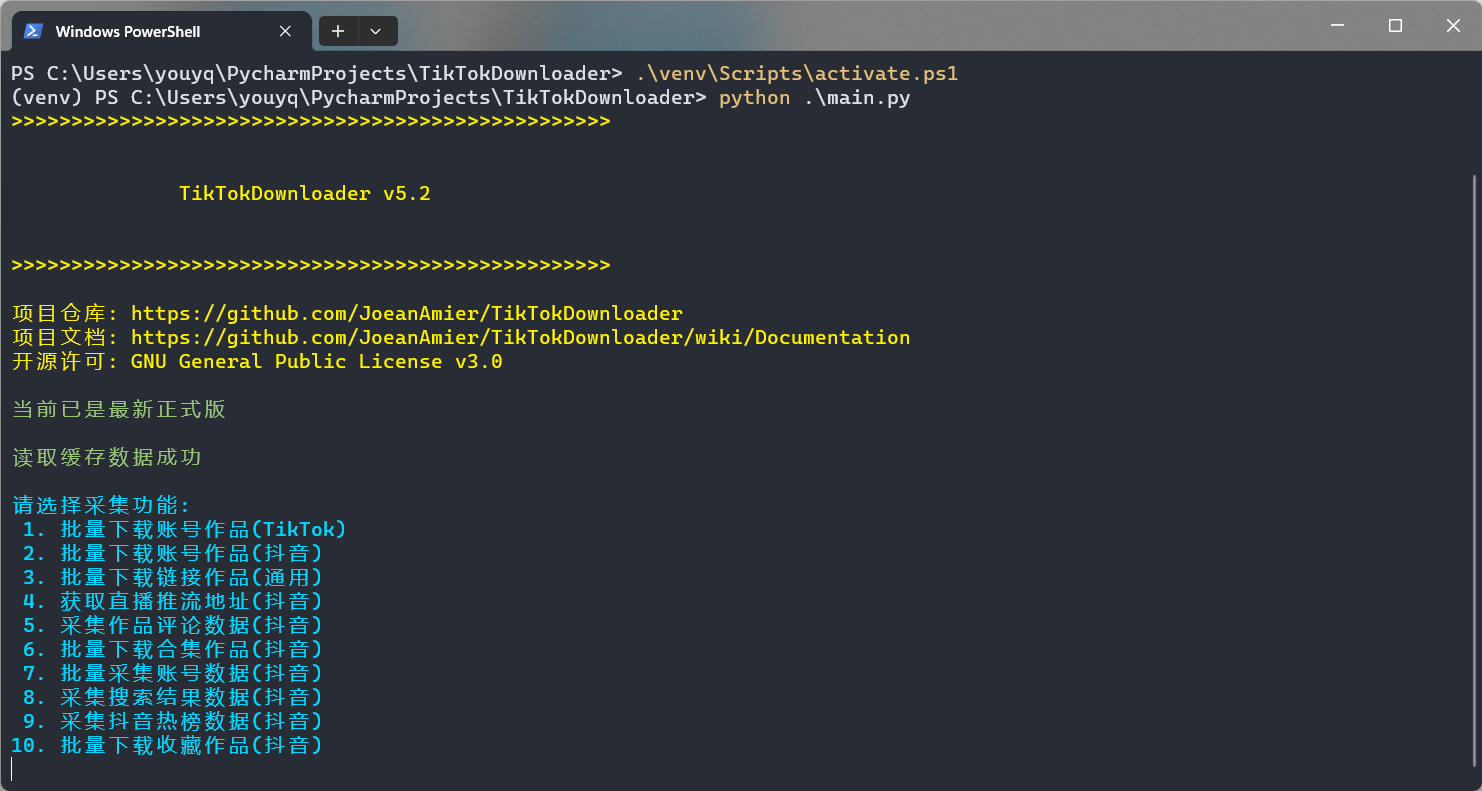
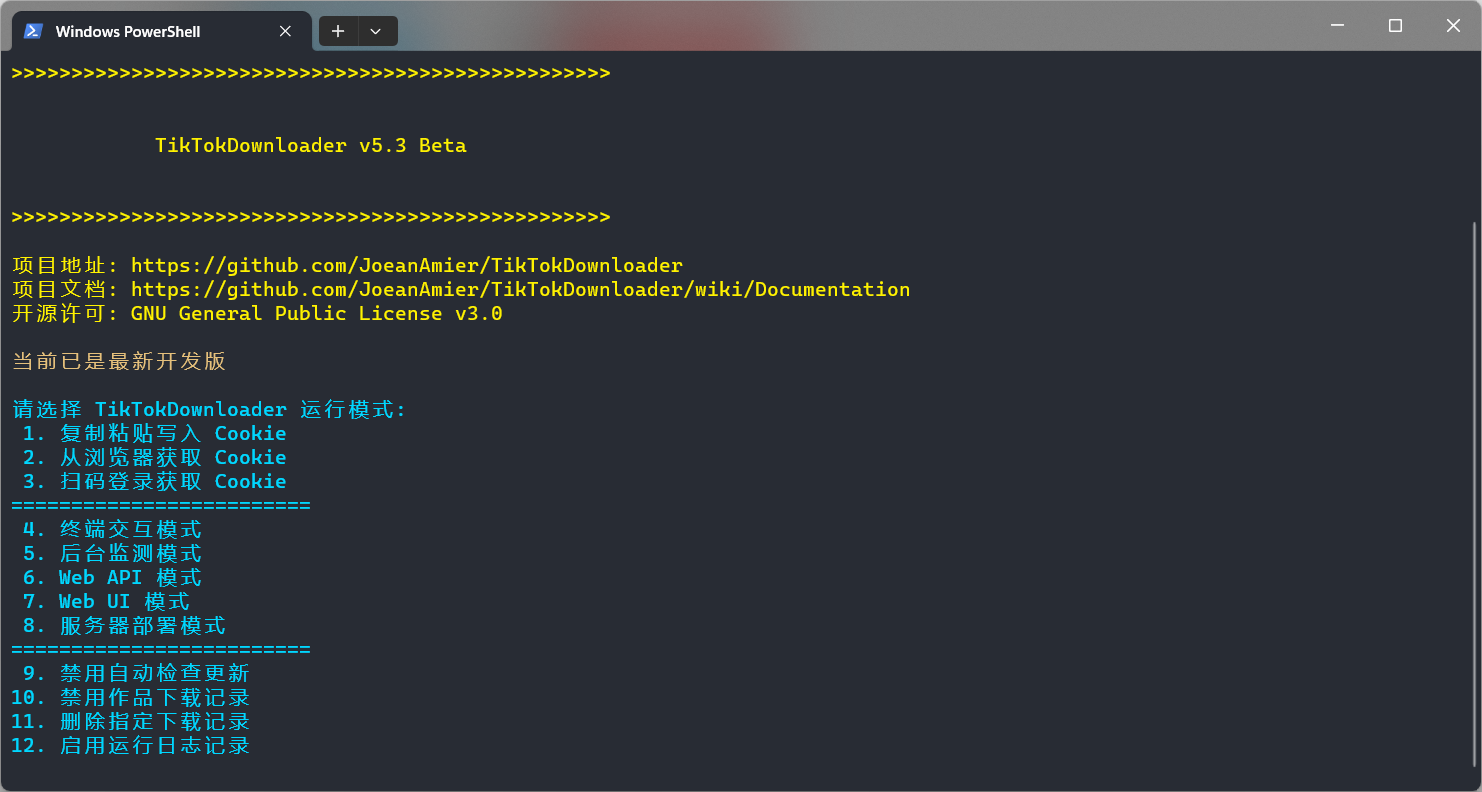
新增从浏览器获取 Cookie 功能

diff --git a/src/module/cookie.py b/src/module/cookie.py
@@ -6,58 +6,62 @@ __all__ = ["Cookie"]
 class Cookie:
     pattern = r'(?P<key>[^=;,]+)=(?P<value>[^;,]+)'
     cookie_keys = {
-        "n_mh": None,
-        "LOGIN_STATUS": None,
-        "_bd_ticket_crypt_doamin": None,
-        "__security_server_data_status": None,
+        "passport_csrf_token": None,
+        "passport_csrf_token_default": None,
+        "my_rd": None,
+        "passport_auth_status": None,
+        "passport_auth_status_ss": None,
+        "d_ticket": None,
+        "publish_badge_show_info": None,
+        "volume_info": None,
+        "__live_version__": None,
+        "download_guide": None,
+        "EnhanceDownloadGuide": None,
+        "pwa2": None,
+        "live_can_add_dy_2_desktop": None,
+        "live_use_vvc": None,
         "store-region": None,
         "store-region-src": None,
-        "my_rd": None,
-        "xgplayer_device_id": None,
-        "xgplayer_user_id": None,
-        "live_use_vvc": None,
-        "dy_swidth": None,
-        "dy_sheight": None,
-        "bd_ticket_guard_client_web_domain": None,
-        "d_ticket": None,
+        "strategyABtestKey": None,
+        "FORCE_LOGIN": None,
+        "LOGIN_STATUS": None,
+        "__security_server_data_status": None,
+        "_bd_ticket_crypt_doamin": None,
+        "n_mh": None,
+        "passport_assist_user": None,
+        "sid_ucp_sso_v1": None,
+        "ssid_ucp_sso_v1": None,
         "sso_uid_tt": None,
         "sso_uid_tt_ss": None,
         "toutiao_sso_user": None,
         "toutiao_sso_user_ss": None,
-        "_bd_ticket_crypt_cookie": None,
-        "passport_assist_user": None,
-        "publish_badge_show_info": None,
-        "s_v_web_id": None,
-        "passport_csrf_token": None,
-        "passport_csrf_token_default": None,
-        "download_guide": None,
-        "__live_version__": None,
-        "live_can_add_dy_2_desktop": None,
-        "volume_info": None,
-        "sid_ucp_sso_v1": None,
-        "ssid_ucp_sso_v1": None,
-        "sid_guard": None,
-        "uid_tt": None,
-        "uid_tt_ss": None,
-        "sid_tt": None,
         "sessionid": None,
         "sessionid_ss": None,
+        "sid_guard": None,
+        "sid_tt": None,
         "sid_ucp_v1": None,
         "ssid_ucp_v1": None,
-        "pwa2": None,
-        "strategyABtestKey": None,
-        "EnhanceDownloadGuide": None,
-        "__ac_nonce": None,
-        "__ac_signature": None,
-        "FOLLOW_LIVE_POINT_INFO": None,
-        "stream_recommend_feed_params": None,
-        "bd_ticket_guard_client_data": None,
-        "home_can_add_dy_2_desktop": None,
-        "tt_scid": None,
-        "stream_player_status_params": None,
-        "odin_tt": None,
+        "uid_tt": None,
+        "uid_tt_ss": None,
         "FOLLOW_NUMBER_YELLOW_POINT_INFO": None,
+        "vdg_s": None,
+        "_bd_ticket_crypt_cookie": None,
+        "FOLLOW_LIVE_POINT_INFO": None,
+        "bd_ticket_guard_client_data": None,
+        "bd_ticket_guard_client_web_domain": None,
+        "home_can_add_dy_2_desktop": None,
+        "odin_tt": None,
+        "stream_recommend_feed_params": None,
         "IsDouyinActive": None,
+        "stream_player_status_params": None,
+        "s_v_web_id": None,
+        "__ac_nonce": None,
+        "dy_sheight": None,
+        "dy_swidth": None,
+        "ttcid": None,
+        "xgplayer_user_id": None,
+        "__ac_signature": None,
+        "tt_scid": None,
     }
 
     def __init__(self, settings, console):

diff --git a/src/module/browser.py b/src/module/browser.py
@@ -1,0 +1,69 @@
+from typing import TYPE_CHECKING
+
+from browser_cookie3 import (
+    chrome,
+    chromium,
+    opera,
+    opera_gx,
+    brave,
+    edge,
+    vivaldi,
+    firefox,
+    librewolf,
+    safari,
+    BrowserCookieError,
+)
+
+from src.custom import WARNING
+
+if TYPE_CHECKING:
+    from src.module import Cookie
+    from src.config import Parameter
+
+
+class Browser:
+    """代码参考：https://github.com/Johnserf-Seed/f2/blob/main/f2/apps/douyin/cli.py"""
+    browser = (
+        chrome,
+        chromium,
+        opera,
+        opera_gx,
+        brave,
+        edge,
+        vivaldi,
+        firefox,
+        librewolf,
+        safari)
+    domain = "douyin.com"
+
+    def __init__(self, parameters: "Parameter", cookie_object: "Cookie"):
+        self.console = parameters.console
+        self.cookie_object = cookie_object
+
+    def run(self):
+        browser = self.console.input(
+            "自动读取指定浏览器的 Cookie 并写入配置文件\n"
+            "支持浏览器：1 Chrome, 2 Chromium, 3 Opera, 4 Opera GX, 5 Brave, 6 Edge, 7 Vivaldi, 8 Firefox, 9 LibreWolf, "
+            "10 Safari\n"
+            "请先关闭对应的浏览器，然后输入浏览器序号：")
+        try:
+            cookie = self.browser[int(browser) - 1](domain_name=self.domain)
+            cookie = self.__extract_cookie(cookie)
+            self.__save_cookie(cookie)
+        except ValueError:
+            self.console.print("浏览器序号错误，未写入 Cookie！")
+        except PermissionError:
+            self.console.print(
+                "获取 Cookie 失败，请先关闭对应的浏览器，然后输入浏览器序号！",
+                style=WARNING)
+        except BrowserCookieError:
+            self.console.print(
+                "获取 Cookie 失败，未找到对应浏览器的 Cookie 数据！",
+                style=WARNING)
+
+    @staticmethod
+    def __extract_cookie(cookie) -> dict:
+        return {i.name: i.value for i in cookie}
+
+    def __save_cookie(self, cookie: dict):
+        self.cookie_object.write(cookie)

diff --git a/src/application/TikTokDownloader.py b/src/application/TikTokDownloader.py
@@ -40,6 +40,7 @@ from src.custom import TEXT_REPLACEMENT
 from src.custom import verify_token
 from src.encrypt import XBogus
 from src.manager import DownloadRecorder
+from src.module import Browser
 from src.module import ColorfulConsole
 from src.module import Cookie
 from src.module import Register
@@ -120,8 +121,9 @@ class TikTokDownloader:
 
     def __update_menu(self):
         self.__function = (
-            ("复制粘贴写入 Cookie(推荐)", self.write_cookie),
-            ("扫码登录写入 Cookie(弃用)", self.auto_cookie),
+            ("复制粘贴写入 Cookie", self.write_cookie),
+            ("从浏览器获取 Cookie", self.browser_cookie),
+            ("扫码登录获取 Cookie", self.auto_cookie),
             ("终端交互模式", self.complete),
             ("后台监测模式", lambda: self.console.print("敬请期待！")),
             ("Web API 模式", self.__api_object),
@@ -223,8 +225,8 @@ class TikTokDownloader:
                     [i for i, _ in self.__function],
                     self.console,
                     separate=(
-                        1,
-                        6))
+                        2,
+                        7))
             self.compatible(default_mode)
             default_mode = "0"
 
@@ -274,6 +276,9 @@ class TikTokDownloader:
         self.check_settings()
 
     def write_cookie(self):
+        self.console.print(
+            "Cookie 获取教程：https://github.com/JoeanAmier/TikTokDownloader/blob/master/docs/Cookie%E6%95"
+            "%99%E7%A8%8B.md")
         self.cookie.run()
         self.check_settings()
         self.parameter.update_cookie()
@@ -342,3 +347,6 @@ class TikTokDownloader:
         self.event.set()
         self.blacklist.close()
         self.parameter.logger.info("程序结束运行")
+
+    def browser_cookie(self):
+        Browser(self.parameter, self.cookie).run()

diff --git a/src/extract/extractor.py b/src/extract/extractor.py
@@ -222,7 +222,7 @@ class Extractor:
         self.__set_blank_data(item, data)
         item["downloads"] = " ".join(
             self.safe_extract(
-                i, 'url_list[-1]') for i in images)
+                i, 'url_list[0]') for i in images)
 
     def __extract_image_info_tiktok(
             self,
@@ -231,7 +231,7 @@ class Extractor:
             images: SimpleNamespace) -> None:
         self.__set_blank_data(item, data)
         item["downloads"] = " ".join(self.safe_extract(
-            i, "display_image.url_list[-1]") for i in images.images)
+            i, "display_image.url_list[0]") for i in images.images)
 
     def __set_blank_data(self, item: dict, data: SimpleNamespace, ):
         item["type"] = "图集"

diff --git a/src/application/main_monitor.py b/src/application/main_monitor.py
@@ -1,8 +1,13 @@
 from .main_complete import TikTok
 
-__all__ = ["Monitor"]
+__all__ = ["ClipboardMonitor", "WorksMonitor"]
 
 
-class Monitor(TikTok):
+class ClipboardMonitor(TikTok):
+    def __init__(self, parameter):
+        super().__init__(parameter)
+
+
+class WorksMonitor(TikTok):
     def __init__(self, parameter):
         super().__init__(parameter)

diff --git a/src/DataAcquirer.py b/src/DataAcquirer.py
@@ -1044,7 +1044,7 @@ class Collection(Acquirer):
             return False
         try:
             self.cursor = data['cursor']
-            self.deal_item_data(data["aweme_list"])
+            self.deal_item_data(data["aweme_list"] or [])
             self.finished = not data["has_more"]
             return True
         except KeyError:

diff --git a/src/module/__init__.py b/src/module/__init__.py
@@ -1,3 +1,4 @@
+from .browser import Browser
 from .console import ColorfulConsole
 from .cookie import Cookie
 from .ffmpeg import FFMPEG
@@ -10,4 +11,5 @@ __all__ = [
     "Register",
     "Cookie",
     "ColorfulConsole",
+    "Browser",
 ]

diff --git a/docs/TikTokDownloader文档.md b/docs/TikTokDownloader文档.md
@@ -36,8 +36,11 @@
 <li>参考 <a href="https://github.com/JoeanAmier/TikTokDownloader/blob/master/docs/Cookie%E6%95%99%E7%A8%8B.md">Cookie 提取教程</a>，复制所需 Cookie 至剪贴板</li>
 <li>选择 <code>复制粘贴写入 Cookie</code> 选项，按照提示将 Cookie 写入配置文件</li>
 </ol>
-<ol><b>扫码登录获取(即将移除)</b>
-<li>选择 <code>扫码登陆写入 Cookie</code> 选项，程序会显示登录二维码图片，并使用默认应用打开图片</li>
+<ol><b>从浏览器获取(推荐)</b>
+<li>选择 <code>从浏览器获取 Cookie</code> 选项，按照提示选择浏览器类型</li>
+</ol>
+<ol><b>扫码登录获取(停用)</b>
+<li>选择 <code>扫码登录获取 Cookie</code> 选项，程序会显示登录二维码图片，并使用默认应用打开图片</li>
 <li>使用抖音 APP 扫描二维码并登录账号</li>
 <li>按照提示操作，将 Cookie 写入配置文件</li>
 </ol>
@@ -542,7 +545,9 @@
 <h2>复制粘贴写入 Cookie</h2>
 <p>参考 <a href="https://github.com/JoeanAmier/TikTokDownloader/blob/master/docs/Cookie%E6%95%99%E7%A8%8B.md">Cookie 提取教程</a>，手动从浏览器复制所需 Cookie 至剪贴板，按照程序提示输入 Cookie 后回车确认，程序会自动处理 Cookie 并写入配置文件。</p>
 <p><b>推荐使用该方法获取 Cookie</b>，如果粘贴 Cookie 至终端后无响应，可能是 Cookie 文本长度超出终端最大文本长度限制，请考虑更换终端或者其他写入方式。</p>
-<h2><del>扫码登录写入 Cookie</del></h2>
+<h2>从浏览器获取 Cookie</h2>
+<p>自动读取本地浏览器的 Cookie 数据，并提取所需 Cookie 写入配置文件，需要完全关闭对应浏览器才能读取 Cookie 数据。</p>
+<h2><del>扫码登录获取 Cookie</del></h2>
 <p><del>程序自动获取抖音登录二维码，随后会在终端输出二维码，并使用系统默认图片浏览器打开二维码图片，使用者通过抖音 APP 扫码并登录账号，操作后关闭二维码图片窗口，程序会自动检查登录结果并将登录后的 Cookie 写入配置文件。</del></p>
 <p><del><b>注意：</b>扫码登录获取的 Cookie 有效期更短，且频繁扫码登录容易导致账号被风控！</del></p>
 <h2>终端交互模式</h2>

diff --git a/README.md b/README.md
@@ -47,6 +47,7 @@
 * ✅ 采集抖音热榜数据
 * ✅ 记录已下载作品 ID
 * ✅ 扫码登陆获取 Cookie
+* ✅ 从浏览器获取 Cookie
 * ✅ 支持 Web API 调用
 * ✅ 支持多线程下载作品
 * ✅ 文件完整性处理机制
@@ -88,6 +89,7 @@
 * 🔴 如果在使用过程中发现程序 Bug，请及时告知作者修复
 * 🔴 采集 TikTok 图集作品导致异常退出，已修复
 * 🔴 某些情况下读取 HTML 文件失败，已修复
+* 🔴 夜晚无法下载高分辨率视频，疑似抖音服务端限制
 
 # 📋 项目说明\(Instructions\)
 
@@ -114,8 +116,11 @@
 <li>参考 <a href="https://github.com/JoeanAmier/TikTokDownloader/blob/master/docs/Cookie%E6%95%99%E7%A8%8B.md">Cookie 提取教程</a>，复制所需 Cookie 至剪贴板</li>
 <li>选择 <code>复制粘贴写入 Cookie</code> 选项，按照提示将 Cookie 写入配置文件</li>
 </ol>
-<ol><b>扫码登录获取(即将移除)</b>
-<li>选择 <code>扫码登陆写入 Cookie</code> 选项，程序会显示登录二维码图片，并使用默认应用打开图片</li>
+<ol><b>从浏览器获取(推荐)</b>
+<li>选择 <code>从浏览器获取 Cookie</code> 选项，按照提示选择浏览器类型</li>
+</ol>
+<ol><b>扫码登录获取(停用)</b>
+<li>选择 <code>扫码登录获取 Cookie</code> 选项，程序会显示登录二维码图片，并使用默认应用打开图片</li>
 <li>使用抖音 APP 扫描二维码并登录账号</li>
 <li>按照提示操作，将 Cookie 写入配置文件</li>
 </ol>
